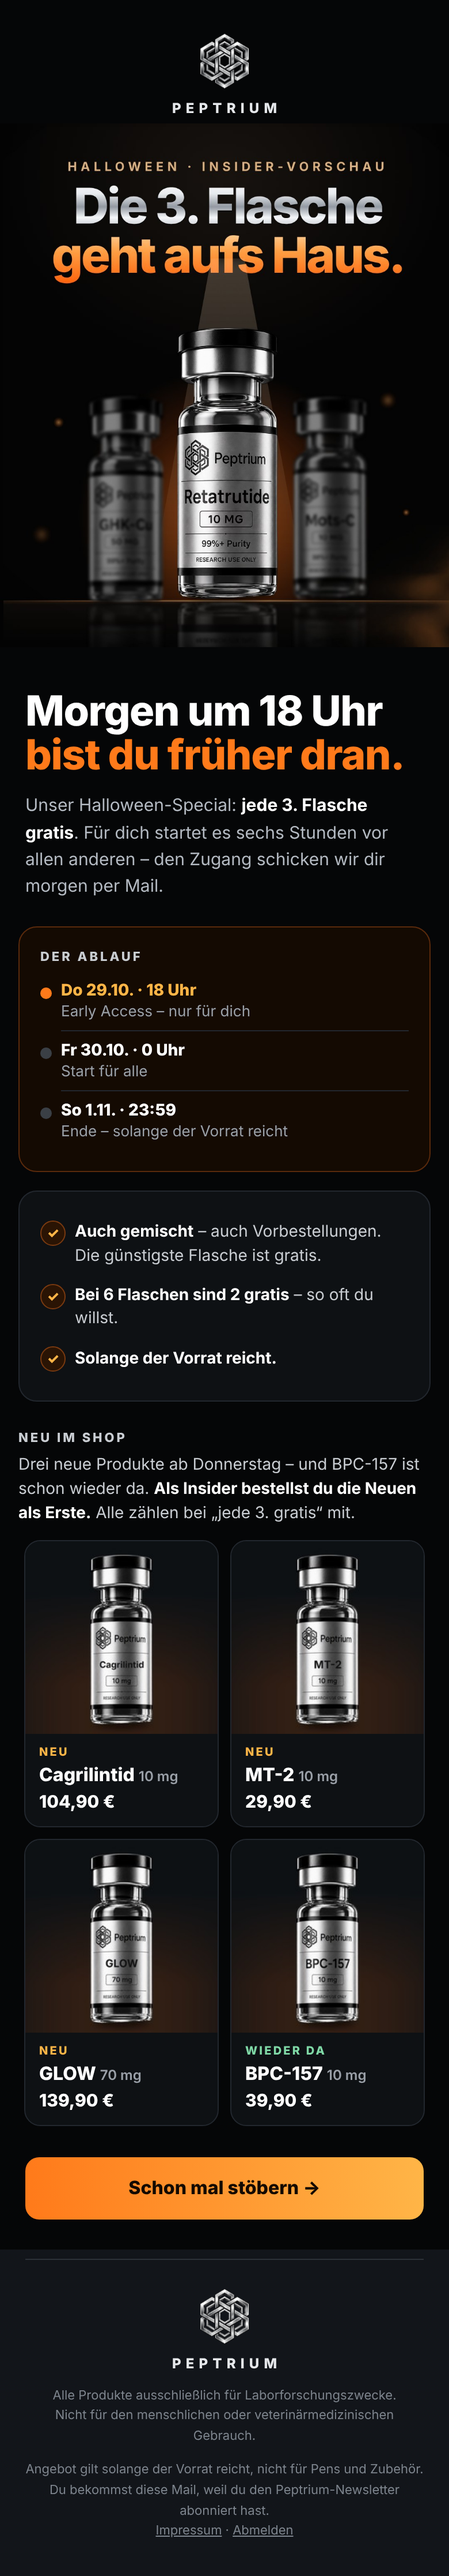
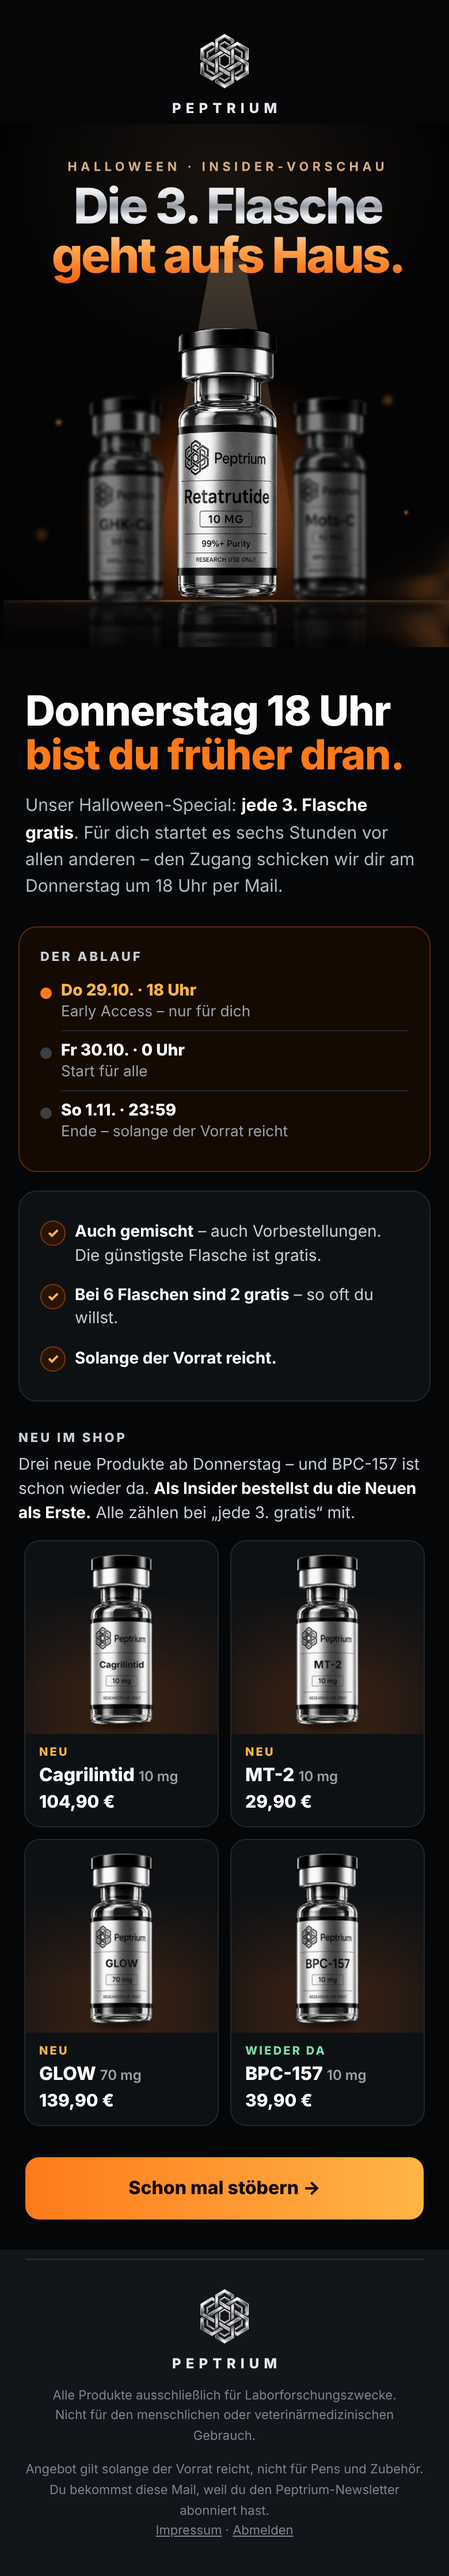
Halloween-Teaser: Text für Versand am Montag (Donnerstag statt morgen)
Claude-Session: https://claude.ai/code/session_011YY7DBkbr5BcFGKyLoSbVN

Changed region(s): [[0.3692, 0.249, 0.8615, 0.2801], [0.0615, 0.249, 0.2462, 0.2801], [0.2462, 0.2801, 0.2769, 0.3112]]

diff --git a/drafts/halloween-2026-10-22/mails/vorschau-teaser.html b/drafts/halloween-2026-10-22/mails/vorschau-teaser.html
@@ -1,1 +1,1 @@
-<!doctype html><html lang="de"><head><meta charset="utf-8"><meta name="viewport" content="width=device-width,initial-scale=1"></head><body style="margin:0;background:#050607;"><table role="presentation" width="100%" cellpadding="0" cellspacing="0" style="background:#050607;"><tr><td align="center" style="padding:0;"><table role="presentation" width="100%" cellpadding="0" cellspacing="0" style="max-width:600px;background:#050607;"><tr><td style="padding:26px 20px 6px;background:#050607;text-align:center;font-family:-apple-system,BlinkMacSystemFont,'Segoe UI',Inter,Helvetica,Arial,sans-serif;"><img src="https://peptrium.com/wp-content/uploads/2026/08/IMG_2644-cropped-300x300.png" width="54" height="54" alt="Peptrium" style="display:block;margin:0 auto;width:54px;height:54px;border:0;"><div style="font-size:12px;font-weight:800;letter-spacing:.34em;padding-left:.34em;color:#E6E8EB;margin-top:6px;">PEPTRIUM</div></td></tr><tr><td style="padding:0;line-height:0;background:#050607;"><a href="https://peptrium.com/alle-produkte/?utm_source=newsletter&utm_medium=email&utm_campaign=halloween-teaser" style="display:block;line-height:0;"><img src="nl-hw3-teaser.jpg" width="600" alt="Halloween bei Peptrium" style="display:block;width:100%;max-width:600px;height:auto;border:0;"></a></td></tr><tr><td style="padding:22px 22px 6px;background:#050607;text-align:left;font-family:-apple-system,BlinkMacSystemFont,'Segoe UI',Inter,Helvetica,Arial,sans-serif;"><div style="font-size:36px;line-height:1.08;font-weight:800;color:#FFFFFF;letter-spacing:-.02em;margin-top:14px;">Morgen um 18 Uhr<br><span style="color:#FF7A1A;">bist du früher dran.</span></div><div style="font-size:15px;line-height:1.55;color:#B4BAC2;margin-top:12px;">Unser Halloween-Special: <b style="color:#fff;">jede 3. Flasche gratis</b>. Für dich startet es sechs Stunden vor allen anderen – den Zugang schicken wir dir morgen per Mail.</div></td></tr><tr><td style="padding:18px 16px 4px;background:#050607;text-align:left;font-family:-apple-system,BlinkMacSystemFont,'Segoe UI',Inter,Helvetica,Arial,sans-serif;"><div style="background:#140A02;border:1px solid #5A2A0C;border-radius:16px;padding:18px 18px;"><div style="font-size:11px;font-weight:800;letter-spacing:.18em;color:#C9CDD2;margin-bottom:6px;">DER ABLAUF</div><table role="presentation" width="100%" cellpadding="0" cellspacing="0"><tr><td width="18" valign="top" style="width:18px;padding:10px 0;"><div style="width:10px;height:10px;border-radius:50%;margin-top:4px;background:#FF7A1A;"></div></td><td style="padding:8px 0;font-family:-apple-system,BlinkMacSystemFont,'Segoe UI',Inter,Helvetica,Arial,sans-serif;border-bottom:1px solid #22272E;"><div style="font-size:14px;font-weight:800;color:#FFB547;">Do 29.10. · 18 Uhr</div><div style="font-size:13px;color:#9AA0A8;margin-top:2px;">Early Access – nur für dich</div></td></tr><tr><td width="18" valign="top" style="width:18px;padding:10px 0;"><div style="width:10px;height:10px;border-radius:50%;margin-top:4px;background:#3A3F45;"></div></td><td style="padding:8px 0;font-family:-apple-system,BlinkMacSystemFont,'Segoe UI',Inter,Helvetica,Arial,sans-serif;border-bottom:1px solid #22272E;"><div style="font-size:14px;font-weight:800;color:#fff;">Fr 30.10. · 0 Uhr</div><div style="font-size:13px;color:#9AA0A8;margin-top:2px;">Start für alle</div></td></tr><tr><td width="18" valign="top" style="width:18px;padding:10px 0;"><div style="width:10px;height:10px;border-radius:50%;margin-top:4px;background:#3A3F45;"></div></td><td style="padding:8px 0;font-family:-apple-system,BlinkMacSystemFont,'Segoe UI',Inter,Helvetica,Arial,sans-serif;"><div style="font-size:14px;font-weight:800;color:#fff;">So 1.11. · 23:59</div><div style="font-size:13px;color:#9AA0A8;margin-top:2px;">Ende – solange der Vorrat reicht</div></td></tr></table></div></td></tr><tr><td style="padding:12px 16px 4px;background:#050607;text-align:left;font-family:-apple-system,BlinkMacSystemFont,'Segoe UI',Inter,Helvetica,Arial,sans-serif;"><div style="background:#0E1114;border:1px solid #22272E;border-radius:16px;padding:18px 18px;"><table role="presentation" width="100%" cellpadding="0" cellspacing="0"><tr><td width="30" valign="top" style="width:30px;padding:7px 0;"><div style="width:20px;height:20px;line-height:20px;border-radius:50%;background:#2A1404;border:1px solid #7A3A10;color:#FFB547;text-align:center;font-size:12px;font-weight:800;">&#10003;</div></td><td style="padding:7px 0;font-family:-apple-system,BlinkMacSystemFont,'Segoe UI',Inter,Helvetica,Arial,sans-serif;font-size:14px;line-height:1.45;color:#C9CDD2;"><b style="color:#fff;">Auch gemischt</b> – auch Vorbestellungen. Die günstigste Flasche ist gratis.</td></tr><tr><td width="30" valign="top" style="width:30px;padding:7px 0;"><div style="width:20px;height:20px;line-height:20px;border-radius:50%;background:#2A1404;border:1px solid #7A3A10;color:#FFB547;text-align:center;font-size:12px;font-weight:800;">&#10003;</div></td><td style="padding:7px 0;font-family:-apple-system,BlinkMacSystemFont,'Segoe UI',Inter,Helvetica,Arial,sans-serif;font-size:14px;line-height:1.45;color:#C9CDD2;"><b style="color:#fff;">Bei 6 Flaschen sind 2 gratis</b> – so oft du willst.</td></tr><tr><td width="30" valign="top" style="width:30px;padding:7px 0;"><div style="width:20px;height:20px;line-height:20px;border-radius:50%;background:#2A1404;border:1px solid #7A3A10;color:#FFB547;text-align:center;font-size:12px;font-weight:800;">&#10003;</div></td><td style="padding:7px 0;font-family:-apple-system,BlinkMacSystemFont,'Segoe UI',Inter,Helvetica,Arial,sans-serif;font-size:14px;line-height:1.45;color:#C9CDD2;"><b style="color:#fff;">Solange der Vorrat reicht.</b></td></tr></table></div></td></tr><tr><td style="padding:20px 16px 4px;background:#050607;text-align:left;font-family:-apple-system,BlinkMacSystemFont,'Segoe UI',Inter,Helvetica,Arial,sans-serif;"><div style="font-size:11px;font-weight:800;letter-spacing:.18em;color:#C9CDD2;margin-bottom:6px;">NEU IM SHOP</div><div style="font-size:14px;color:#C9CDD2;line-height:1.5;margin-bottom:8px;">Drei neue Produkte ab Donnerstag – und BPC-157 ist schon wieder da. <b style="color:#fff;">Als Insider bestellst du die Neuen als Erste.</b> Alle zählen bei „jede 3. gratis“ mit.</div><table role="presentation" width="100%" cellpadding="0" cellspacing="0"><tr><td width="50%" valign="top" style="width:50%;padding:5px;"><a href="https://peptrium.com/produkt/cagrilintid/?utm_source=newsletter&utm_medium=email&utm_campaign=halloween-teaser" style="text-decoration:none;display:block;background:#0E1114;border:1px solid #22272E;border-radius:14px;overflow:hidden;"><img src="nl-hw-p-cagri.jpg" width="270" alt="Cagrilintid" style="display:block;width:100%;height:auto;border:0;"><div style="padding:10px 12px 12px;font-family:-apple-system,BlinkMacSystemFont,'Segoe UI',Inter,Helvetica,Arial,sans-serif;"><div style="font-size:10px;font-weight:800;letter-spacing:.16em;color:#FFB547;">NEU</div><div style="font-size:16px;font-weight:800;color:#fff;margin-top:3px;">Cagrilintid <span style="font-size:12px;font-weight:600;color:#9AA0A8;">10 mg</span></div><div style="font-size:15px;font-weight:800;color:#fff;margin-top:4px;white-space:nowrap;">104,90 €</div></div></a></td><td width="50%" valign="top" style="width:50%;padding:5px;"><a href="https://peptrium.com/produkt/melanotan-2/?utm_source=newsletter&utm_medium=email&utm_campaign=halloween-teaser" style="text-decoration:none;display:block;background:#0E1114;border:1px solid #22272E;border-radius:14px;overflow:hidden;"><img src="nl-hw-p-mt2.jpg" width="270" alt="MT-2" style="display:block;width:100%;height:auto;border:0;"><div style="padding:10px 12px 12px;font-family:-apple-system,BlinkMacSystemFont,'Segoe UI',Inter,Helvetica,Arial,sans-serif;"><div style="font-size:10px;font-weight:800;letter-spacing:.16em;color:#FFB547;">NEU</div><div style="font-size:16px;font-weight:800;color:#fff;margin-top:3px;">MT-2 <span style="font-size:12px;font-weight:600;color:#9AA0A8;">10 mg</span></div><div style="font-size:15px;font-weight:800;color:#fff;margin-top:4px;white-space:nowrap;">29,90 €</div></div></a></td></tr><tr><td width="50%" valign="top" style="width:50%;padding:5px;"><a href="https://peptrium.com/produkt/glow/?utm_source=newsletter&utm_medium=email&utm_campaign=halloween-teaser" style="text-decoration:none;display:block;background:#0E1114;border:1px solid #22272E;border-radius:14px;overflow:hidden;"><img src="nl-hw-p-glow.jpg" width="270" alt="GLOW" style="display:block;width:100%;height:auto;border:0;"><div style="padding:10px 12px 12px;font-family:-apple-system,BlinkMacSystemFont,'Segoe UI',Inter,Helvetica,Arial,sans-serif;"><div style="font-size:10px;font-weight:800;letter-spacing:.16em;color:#FFB547;">NEU</div><div style="font-size:16px;font-weight:800;color:#fff;margin-top:3px;">GLOW <span style="font-size:12px;font-weight:600;color:#9AA0A8;">70 mg</span></div><div style="font-size:15px;font-weight:800;color:#fff;margin-top:4px;white-space:nowrap;">139,90 €</div></div></a></td><td width="50%" valign="top" style="width:50%;padding:5px;"><a href="https://peptrium.com/produkt/bpc-157/?utm_source=newsletter&utm_medium=email&utm_campaign=halloween-teaser" style="text-decoration:none;display:block;background:#0E1114;border:1px solid #22272E;border-radius:14px;overflow:hidden;"><img src="nl-hw-p-bpc.jpg" width="270" alt="BPC-157" style="display:block;width:100%;height:auto;border:0;"><div style="padding:10px 12px 12px;font-family:-apple-system,BlinkMacSystemFont,'Segoe UI',Inter,Helvetica,Arial,sans-serif;"><div style="font-size:10px;font-weight:800;letter-spacing:.16em;color:#7FD8A6;">WIEDER DA</div><div style="font-size:16px;font-weight:800;color:#fff;margin-top:3px;">BPC-157 <span style="font-size:12px;font-weight:600;color:#9AA0A8;">10 mg</span></div><div style="font-size:15px;font-weight:800;color:#fff;margin-top:4px;white-space:nowrap;">39,90 €</div></div></a></td></tr></table></td></tr><tr><td style="padding:18px 22px 26px;background:#050607;text-align:left;font-family:-apple-system,BlinkMacSystemFont,'Segoe UI',Inter,Helvetica,Arial,sans-serif;"><a href="https://peptrium.com/alle-produkte/?utm_source=newsletter&utm_medium=email&utm_campaign=halloween-teaser" style="display:block;background:#FF7A1A;background-image:linear-gradient(90deg,#FF7A1A,#FFB547);color:#140A02;text-align:center;text-decoration:none;font-weight:800;font-size:16px;line-height:1.2;padding:17px 12px;border-radius:12px;font-family:-apple-system,BlinkMacSystemFont,'Segoe UI',Inter,Helvetica,Arial,sans-serif;">Schon mal stöbern &rarr;</a></td></tr><tr><td style="padding:8px 22px 30px;background:#12151A;text-align:center;font-family:-apple-system,BlinkMacSystemFont,'Segoe UI',Inter,Helvetica,Arial,sans-serif;"><div style="height:1px;background:#2C3138;margin:0 0 22px;"></div><img src="https://peptrium.com/wp-content/uploads/2026/08/IMG_2644-cropped-300x300.png" width="54" height="54" alt="Peptrium" style="display:block;margin:0 auto;width:54px;height:54px;border:0;"><div style="font-size:12px;font-weight:800;letter-spacing:.34em;padding-left:.34em;color:#E6E8EB;margin-top:6px;">PEPTRIUM</div><div style="font-size:11px;color:#7D848D;margin-top:12px;line-height:1.6;">Alle Produkte ausschließlich für Laborforschungszwecke.<br>Nicht für den menschlichen oder veterinärmedizinischen Gebrauch.</div><div style="font-size:11px;color:#7D848D;margin-top:12px;line-height:1.6;">Angebot gilt solange der Vorrat reicht, nicht für Pens und Zubehör.<br>Du bekommst diese Mail, weil du den Peptrium-Newsletter abonniert hast. <br><a href="https://peptrium.com/impressum/" style="color:#7D848D;">Impressum</a> · <a href="#" style="color:#7D848D;">Abmelden</a></div></td></tr></table></td></tr></table></body></html>
+<!doctype html><html lang="de"><head><meta charset="utf-8"><meta name="viewport" content="width=device-width,initial-scale=1"></head><body style="margin:0;background:#050607;"><table role="presentation" width="100%" cellpadding="0" cellspacing="0" style="background:#050607;"><tr><td align="center" style="padding:0;"><table role="presentation" width="100%" cellpadding="0" cellspacing="0" style="max-width:600px;background:#050607;"><tr><td style="padding:26px 20px 6px;background:#050607;text-align:center;font-family:-apple-system,BlinkMacSystemFont,'Segoe UI',Inter,Helvetica,Arial,sans-serif;"><img src="https://peptrium.com/wp-content/uploads/2026/08/IMG_2644-cropped-300x300.png" width="54" height="54" alt="Peptrium" style="display:block;margin:0 auto;width:54px;height:54px;border:0;"><div style="font-size:12px;font-weight:800;letter-spacing:.34em;padding-left:.34em;color:#E6E8EB;margin-top:6px;">PEPTRIUM</div></td></tr><tr><td style="padding:0;line-height:0;background:#050607;"><a href="https://peptrium.com/alle-produkte/?utm_source=newsletter&utm_medium=email&utm_campaign=halloween-teaser" style="display:block;line-height:0;"><img src="nl-hw3-teaser.jpg" width="600" alt="Halloween bei Peptrium" style="display:block;width:100%;max-width:600px;height:auto;border:0;"></a></td></tr><tr><td style="padding:22px 22px 6px;background:#050607;text-align:left;font-family:-apple-system,BlinkMacSystemFont,'Segoe UI',Inter,Helvetica,Arial,sans-serif;"><div style="font-size:36px;line-height:1.08;font-weight:800;color:#FFFFFF;letter-spacing:-.02em;margin-top:14px;">Donnerstag 18 Uhr<br><span style="color:#FF7A1A;">bist du früher dran.</span></div><div style="font-size:15px;line-height:1.55;color:#B4BAC2;margin-top:12px;">Unser Halloween-Special: <b style="color:#fff;">jede 3. Flasche gratis</b>. Für dich startet es sechs Stunden vor allen anderen – den Zugang schicken wir dir am Donnerstag um 18 Uhr per Mail.</div></td></tr><tr><td style="padding:18px 16px 4px;background:#050607;text-align:left;font-family:-apple-system,BlinkMacSystemFont,'Segoe UI',Inter,Helvetica,Arial,sans-serif;"><div style="background:#140A02;border:1px solid #5A2A0C;border-radius:16px;padding:18px 18px;"><div style="font-size:11px;font-weight:800;letter-spacing:.18em;color:#C9CDD2;margin-bottom:6px;">DER ABLAUF</div><table role="presentation" width="100%" cellpadding="0" cellspacing="0"><tr><td width="18" valign="top" style="width:18px;padding:10px 0;"><div style="width:10px;height:10px;border-radius:50%;margin-top:4px;background:#FF7A1A;"></div></td><td style="padding:8px 0;font-family:-apple-system,BlinkMacSystemFont,'Segoe UI',Inter,Helvetica,Arial,sans-serif;border-bottom:1px solid #22272E;"><div style="font-size:14px;font-weight:800;color:#FFB547;">Do 29.10. · 18 Uhr</div><div style="font-size:13px;color:#9AA0A8;margin-top:2px;">Early Access – nur für dich</div></td></tr><tr><td width="18" valign="top" style="width:18px;padding:10px 0;"><div style="width:10px;height:10px;border-radius:50%;margin-top:4px;background:#3A3F45;"></div></td><td style="padding:8px 0;font-family:-apple-system,BlinkMacSystemFont,'Segoe UI',Inter,Helvetica,Arial,sans-serif;border-bottom:1px solid #22272E;"><div style="font-size:14px;font-weight:800;color:#fff;">Fr 30.10. · 0 Uhr</div><div style="font-size:13px;color:#9AA0A8;margin-top:2px;">Start für alle</div></td></tr><tr><td width="18" valign="top" style="width:18px;padding:10px 0;"><div style="width:10px;height:10px;border-radius:50%;margin-top:4px;background:#3A3F45;"></div></td><td style="padding:8px 0;font-family:-apple-system,BlinkMacSystemFont,'Segoe UI',Inter,Helvetica,Arial,sans-serif;"><div style="font-size:14px;font-weight:800;color:#fff;">So 1.11. · 23:59</div><div style="font-size:13px;color:#9AA0A8;margin-top:2px;">Ende – solange der Vorrat reicht</div></td></tr></table></div></td></tr><tr><td style="padding:12px 16px 4px;background:#050607;text-align:left;font-family:-apple-system,BlinkMacSystemFont,'Segoe UI',Inter,Helvetica,Arial,sans-serif;"><div style="background:#0E1114;border:1px solid #22272E;border-radius:16px;padding:18px 18px;"><table role="presentation" width="100%" cellpadding="0" cellspacing="0"><tr><td width="30" valign="top" style="width:30px;padding:7px 0;"><div style="width:20px;height:20px;line-height:20px;border-radius:50%;background:#2A1404;border:1px solid #7A3A10;color:#FFB547;text-align:center;font-size:12px;font-weight:800;">&#10003;</div></td><td style="padding:7px 0;font-family:-apple-system,BlinkMacSystemFont,'Segoe UI',Inter,Helvetica,Arial,sans-serif;font-size:14px;line-height:1.45;color:#C9CDD2;"><b style="color:#fff;">Auch gemischt</b> – auch Vorbestellungen. Die günstigste Flasche ist gratis.</td></tr><tr><td width="30" valign="top" style="width:30px;padding:7px 0;"><div style="width:20px;height:20px;line-height:20px;border-radius:50%;background:#2A1404;border:1px solid #7A3A10;color:#FFB547;text-align:center;font-size:12px;font-weight:800;">&#10003;</div></td><td style="padding:7px 0;font-family:-apple-system,BlinkMacSystemFont,'Segoe UI',Inter,Helvetica,Arial,sans-serif;font-size:14px;line-height:1.45;color:#C9CDD2;"><b style="color:#fff;">Bei 6 Flaschen sind 2 gratis</b> – so oft du willst.</td></tr><tr><td width="30" valign="top" style="width:30px;padding:7px 0;"><div style="width:20px;height:20px;line-height:20px;border-radius:50%;background:#2A1404;border:1px solid #7A3A10;color:#FFB547;text-align:center;font-size:12px;font-weight:800;">&#10003;</div></td><td style="padding:7px 0;font-family:-apple-system,BlinkMacSystemFont,'Segoe UI',Inter,Helvetica,Arial,sans-serif;font-size:14px;line-height:1.45;color:#C9CDD2;"><b style="color:#fff;">Solange der Vorrat reicht.</b></td></tr></table></div></td></tr><tr><td style="padding:20px 16px 4px;background:#050607;text-align:left;font-family:-apple-system,BlinkMacSystemFont,'Segoe UI',Inter,Helvetica,Arial,sans-serif;"><div style="font-size:11px;font-weight:800;letter-spacing:.18em;color:#C9CDD2;margin-bottom:6px;">NEU IM SHOP</div><div style="font-size:14px;color:#C9CDD2;line-height:1.5;margin-bottom:8px;">Drei neue Produkte ab Donnerstag – und BPC-157 ist schon wieder da. <b style="color:#fff;">Als Insider bestellst du die Neuen als Erste.</b> Alle zählen bei „jede 3. gratis“ mit.</div><table role="presentation" width="100%" cellpadding="0" cellspacing="0"><tr><td width="50%" valign="top" style="width:50%;padding:5px;"><a href="https://peptrium.com/produkt/cagrilintid/?utm_source=newsletter&utm_medium=email&utm_campaign=halloween-teaser" style="text-decoration:none;display:block;background:#0E1114;border:1px solid #22272E;border-radius:14px;overflow:hidden;"><img src="nl-hw-p-cagri.jpg" width="270" alt="Cagrilintid" style="display:block;width:100%;height:auto;border:0;"><div style="padding:10px 12px 12px;font-family:-apple-system,BlinkMacSystemFont,'Segoe UI',Inter,Helvetica,Arial,sans-serif;"><div style="font-size:10px;font-weight:800;letter-spacing:.16em;color:#FFB547;">NEU</div><div style="font-size:16px;font-weight:800;color:#fff;margin-top:3px;">Cagrilintid <span style="font-size:12px;font-weight:600;color:#9AA0A8;">10 mg</span></div><div style="font-size:15px;font-weight:800;color:#fff;margin-top:4px;white-space:nowrap;">104,90 €</div></div></a></td><td width="50%" valign="top" style="width:50%;padding:5px;"><a href="https://peptrium.com/produkt/melanotan-2/?utm_source=newsletter&utm_medium=email&utm_campaign=halloween-teaser" style="text-decoration:none;display:block;background:#0E1114;border:1px solid #22272E;border-radius:14px;overflow:hidden;"><img src="nl-hw-p-mt2.jpg" width="270" alt="MT-2" style="display:block;width:100%;height:auto;border:0;"><div style="padding:10px 12px 12px;font-family:-apple-system,BlinkMacSystemFont,'Segoe UI',Inter,Helvetica,Arial,sans-serif;"><div style="font-size:10px;font-weight:800;letter-spacing:.16em;color:#FFB547;">NEU</div><div style="font-size:16px;font-weight:800;color:#fff;margin-top:3px;">MT-2 <span style="font-size:12px;font-weight:600;color:#9AA0A8;">10 mg</span></div><div style="font-size:15px;font-weight:800;color:#fff;margin-top:4px;white-space:nowrap;">29,90 €</div></div></a></td></tr><tr><td width="50%" valign="top" style="width:50%;padding:5px;"><a href="https://peptrium.com/produkt/glow/?utm_source=newsletter&utm_medium=email&utm_campaign=halloween-teaser" style="text-decoration:none;display:block;background:#0E1114;border:1px solid #22272E;border-radius:14px;overflow:hidden;"><img src="nl-hw-p-glow.jpg" width="270" alt="GLOW" style="display:block;width:100%;height:auto;border:0;"><div style="padding:10px 12px 12px;font-family:-apple-system,BlinkMacSystemFont,'Segoe UI',Inter,Helvetica,Arial,sans-serif;"><div style="font-size:10px;font-weight:800;letter-spacing:.16em;color:#FFB547;">NEU</div><div style="font-size:16px;font-weight:800;color:#fff;margin-top:3px;">GLOW <span style="font-size:12px;font-weight:600;color:#9AA0A8;">70 mg</span></div><div style="font-size:15px;font-weight:800;color:#fff;margin-top:4px;white-space:nowrap;">139,90 €</div></div></a></td><td width="50%" valign="top" style="width:50%;padding:5px;"><a href="https://peptrium.com/produkt/bpc-157/?utm_source=newsletter&utm_medium=email&utm_campaign=halloween-teaser" style="text-decoration:none;display:block;background:#0E1114;border:1px solid #22272E;border-radius:14px;overflow:hidden;"><img src="nl-hw-p-bpc.jpg" width="270" alt="BPC-157" style="display:block;width:100%;height:auto;border:0;"><div style="padding:10px 12px 12px;font-family:-apple-system,BlinkMacSystemFont,'Segoe UI',Inter,Helvetica,Arial,sans-serif;"><div style="font-size:10px;font-weight:800;letter-spacing:.16em;color:#7FD8A6;">WIEDER DA</div><div style="font-size:16px;font-weight:800;color:#fff;margin-top:3px;">BPC-157 <span style="font-size:12px;font-weight:600;color:#9AA0A8;">10 mg</span></div><div style="font-size:15px;font-weight:800;color:#fff;margin-top:4px;white-space:nowrap;">39,90 €</div></div></a></td></tr></table></td></tr><tr><td style="padding:18px 22px 26px;background:#050607;text-align:left;font-family:-apple-system,BlinkMacSystemFont,'Segoe UI',Inter,Helvetica,Arial,sans-serif;"><a href="https://peptrium.com/alle-produkte/?utm_source=newsletter&utm_medium=email&utm_campaign=halloween-teaser" style="display:block;background:#FF7A1A;background-image:linear-gradient(90deg,#FF7A1A,#FFB547);color:#140A02;text-align:center;text-decoration:none;font-weight:800;font-size:16px;line-height:1.2;padding:17px 12px;border-radius:12px;font-family:-apple-system,BlinkMacSystemFont,'Segoe UI',Inter,Helvetica,Arial,sans-serif;">Schon mal stöbern &rarr;</a></td></tr><tr><td style="padding:8px 22px 30px;background:#12151A;text-align:center;font-family:-apple-system,BlinkMacSystemFont,'Segoe UI',Inter,Helvetica,Arial,sans-serif;"><div style="height:1px;background:#2C3138;margin:0 0 22px;"></div><img src="https://peptrium.com/wp-content/uploads/2026/08/IMG_2644-cropped-300x300.png" width="54" height="54" alt="Peptrium" style="display:block;margin:0 auto;width:54px;height:54px;border:0;"><div style="font-size:12px;font-weight:800;letter-spacing:.34em;padding-left:.34em;color:#E6E8EB;margin-top:6px;">PEPTRIUM</div><div style="font-size:11px;color:#7D848D;margin-top:12px;line-height:1.6;">Alle Produkte ausschließlich für Laborforschungszwecke.<br>Nicht für den menschlichen oder veterinärmedizinischen Gebrauch.</div><div style="font-size:11px;color:#7D848D;margin-top:12px;line-height:1.6;">Angebot gilt solange der Vorrat reicht, nicht für Pens und Zubehör.<br>Du bekommst diese Mail, weil du den Peptrium-Newsletter abonniert hast. <br><a href="https://peptrium.com/impressum/" style="color:#7D848D;">Impressum</a> · <a href="#" style="color:#7D848D;">Abmelden</a></div></td></tr></table></td></tr></table></body></html>

diff --git a/drafts/halloween-2026-10-22/mails/gen.py b/drafts/halloween-2026-10-22/mails/gen.py
@@ -85,7 +85,7 @@ def newgrid(c, deal):
 def teaser():
     c = 'halloween-teaser'
     return wrap(row(logo(), '26px 20px 6px', align='center') + heroimg('teaser', utm('/alle-produkte/', c))
-        + row(h1('Morgen um 18 Uhr', 'bist du früher dran.', 'Unser Halloween-Special: <b style="color:#fff;">jede 3. Flasche gratis</b>. Für dich startet es sechs Stunden vor allen anderen – den Zugang schicken wir dir morgen per Mail.'), '22px 22px 6px')
+        + row(h1('Donnerstag 18 Uhr', 'bist du früher dran.', 'Unser Halloween-Special: <b style="color:#fff;">jede 3. Flasche gratis</b>. Für dich startet es sechs Stunden vor allen anderen – den Zugang schicken wir dir am Donnerstag um 18 Uhr per Mail.'), '22px 22px 6px')
         + row(box(label('DER ABLAUF') + timeline(0)), '18px 16px 4px')
         + row(ticks([TK_MIX, '<b style="color:#fff;">Bei 6 Flaschen sind 2 gratis</b> – so oft du willst.', TK_VORRAT]), '12px 16px 4px')
         + row(label('NEU IM SHOP') + f'<div style="font-size:14px;color:{LT};line-height:1.5;margin-bottom:8px;">Drei neue Produkte ab Donnerstag – und BPC-157 ist schon wieder da. <b style="color:#fff;">Als Insider bestellst du die Neuen als Erste.</b> Alle zählen bei „jede 3. gratis“ mit.</div>' + newgrid(c, False), '20px 16px 4px')
@@ -113,7 +113,7 @@ def letzte():
         + row(ticks([TK_MIX, TK_CODE, TK_VK]), '12px 16px 26px'))
 
 SUBJ = {
-    'teaser': ('Morgen 18 Uhr: du bist früher dran 🎃', 'Jede 3. Flasche gratis – plus 3 neue Produkte.'),
+    'teaser': ('Donnerstag 18 Uhr: du bist früher dran 🎃', 'Jede 3. Flasche gratis – plus 3 neue Produkte.'),
     'early': ('Du bist drin 🎃', 'Jede 3. Flasche gratis – und die Neuheiten sind schon da.'),
     'letzte': ('Heute um Mitternacht ist Schluss', 'Danach wieder volle Preise.'),
 }
